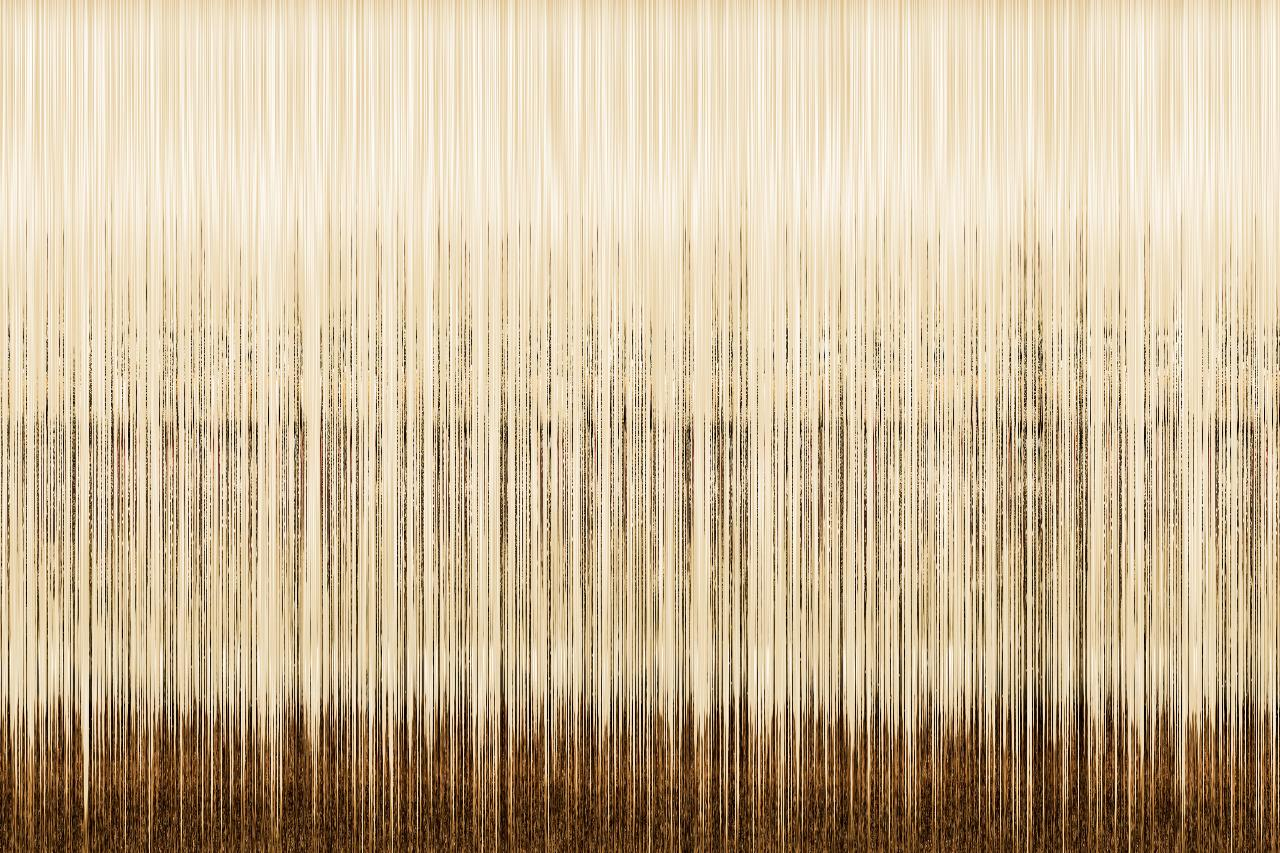
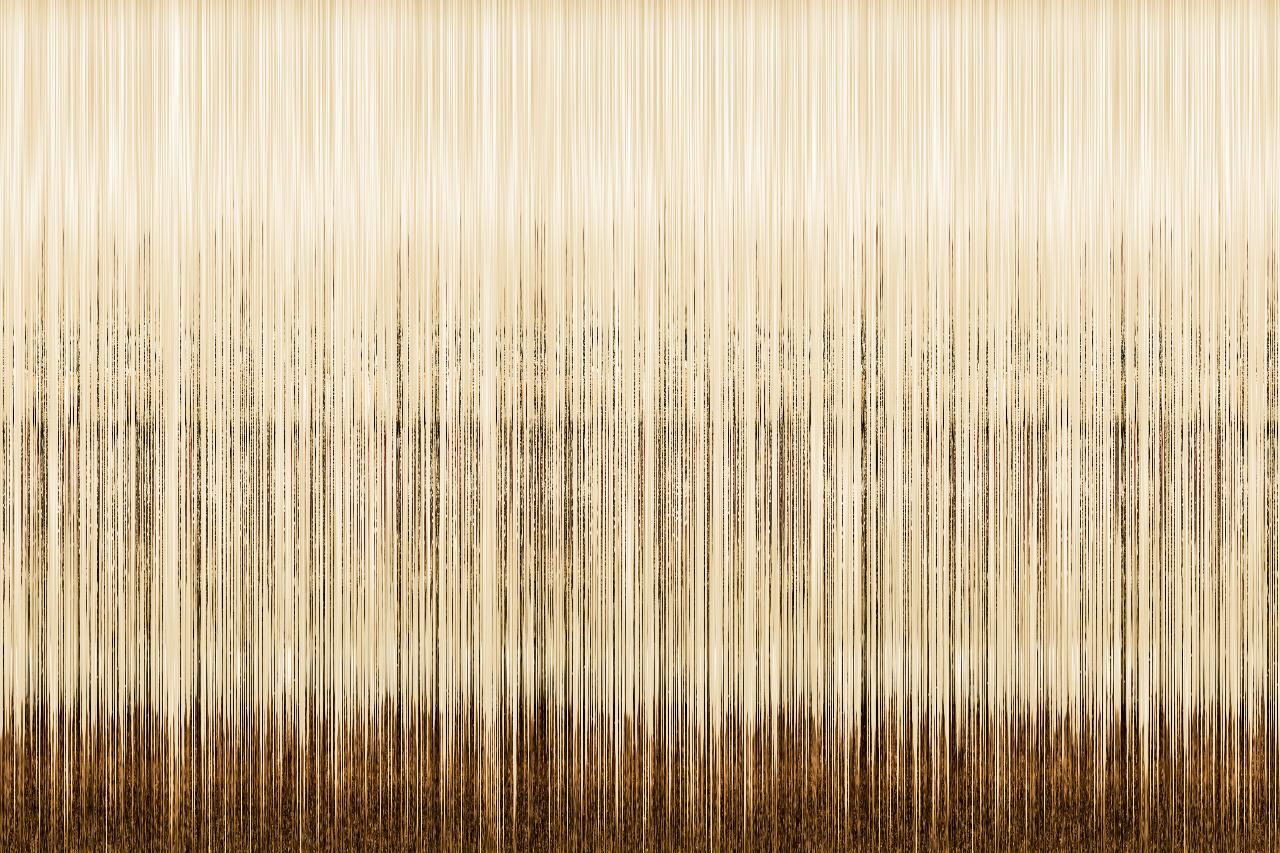
este si muestra la imagen descifrada

diff --git a/api.py b/api.py
@@ -144,18 +144,19 @@ def apply_filter(img1: Image.Image, img2: Image.Image):
 
     # Crear una nueva imagen a partir de la matriz modificada
     nueva_imagen = Image.fromarray(matriz_segunda_imagen)
+    print(type(matriz_segunda_imagen))
+    print(type(secuencia_aleatoria_invertida))
+    return nueva_imagen, matriz_segunda_imagen, matriz_original, secuencia_aleatoria_invertida
 
+def descifrar(matriz_segunda_imagen, secuencia_aleatoria_invertida):
     matriz_original2 = matriz_segunda_imagen[:, secuencia_aleatoria_invertida]
 
 
     # Crea una nueva imagen a partir de la matriz original
     imagen_original = Image.fromarray(matriz_original2)
 
-    similarity_score = compare_matrices(matriz_original, matriz_original2)
-    print("Mean Absolute Error:", similarity_score)
-
-    display_histograms(matriz_original, matriz_original2)
-    return nueva_imagen
+    
+    return imagen_original, matriz_original2
 
 def compare_matrices(matriz_original, matriz_modified):
   """
@@ -225,10 +226,36 @@ async def create_upload_file(img1: UploadFile,img2: UploadFile ):
     image1 = Image.open(BytesIO(cont1))
     image2 = Image.open(BytesIO(cont2))
     # Apply the filter
-    filtered_img = apply_filter(image1,image2)
+    nueva_imagen, matriz_segunda_imagen, matriz_original, secuencia_aleatoria_invertida = apply_filter(image1,image2)
     # Save the filtered image to a BytesIO buffer
     img_bytes = BytesIO()
-    filtered_img.save(img_bytes, format="JPEG")
+    nueva_imagen.save(img_bytes, format="JPEG")
+    img_bytes.seek(0)
+    # Return the filtered image bytes as a response
+    return StreamingResponse(img_bytes, media_type="image/jpeg")
+
+@app.post("/descifrar/")
+async def descifrarImagen(img1: UploadFile,img2: UploadFile ):
+    # Read the contents of the uploaded img1
+    cont1 = await img1.read()
+    cont2 = await img2.read()
+    # Open the image using PIL
+    image1 = Image.open(BytesIO(cont1))
+    image2 = Image.open(BytesIO(cont2))
+    
+    
+    # Apply the filter
+    nueva_imagen, matriz_segunda_imagen, matriz_original, secuencia_aleatoria_invertida = apply_filter(image1,image2)
+
+    imagen_original, matriz_original2 = descifrar(matriz_segunda_imagen, secuencia_aleatoria_invertida)
+    # Save the filtered image to a BytesIO buffer
+    similarity_score = compare_matrices(matriz_original, matriz_original2)
+    print("Mean Absolute Error:", similarity_score)
+
+    display_histograms(matriz_original, matriz_original2)
+    
+    img_bytes = BytesIO()
+    imagen_original.save(img_bytes, format="JPEG")
     img_bytes.seek(0)
     # Return the filtered image bytes as a response
     return StreamingResponse(img_bytes, media_type="image/jpeg")
